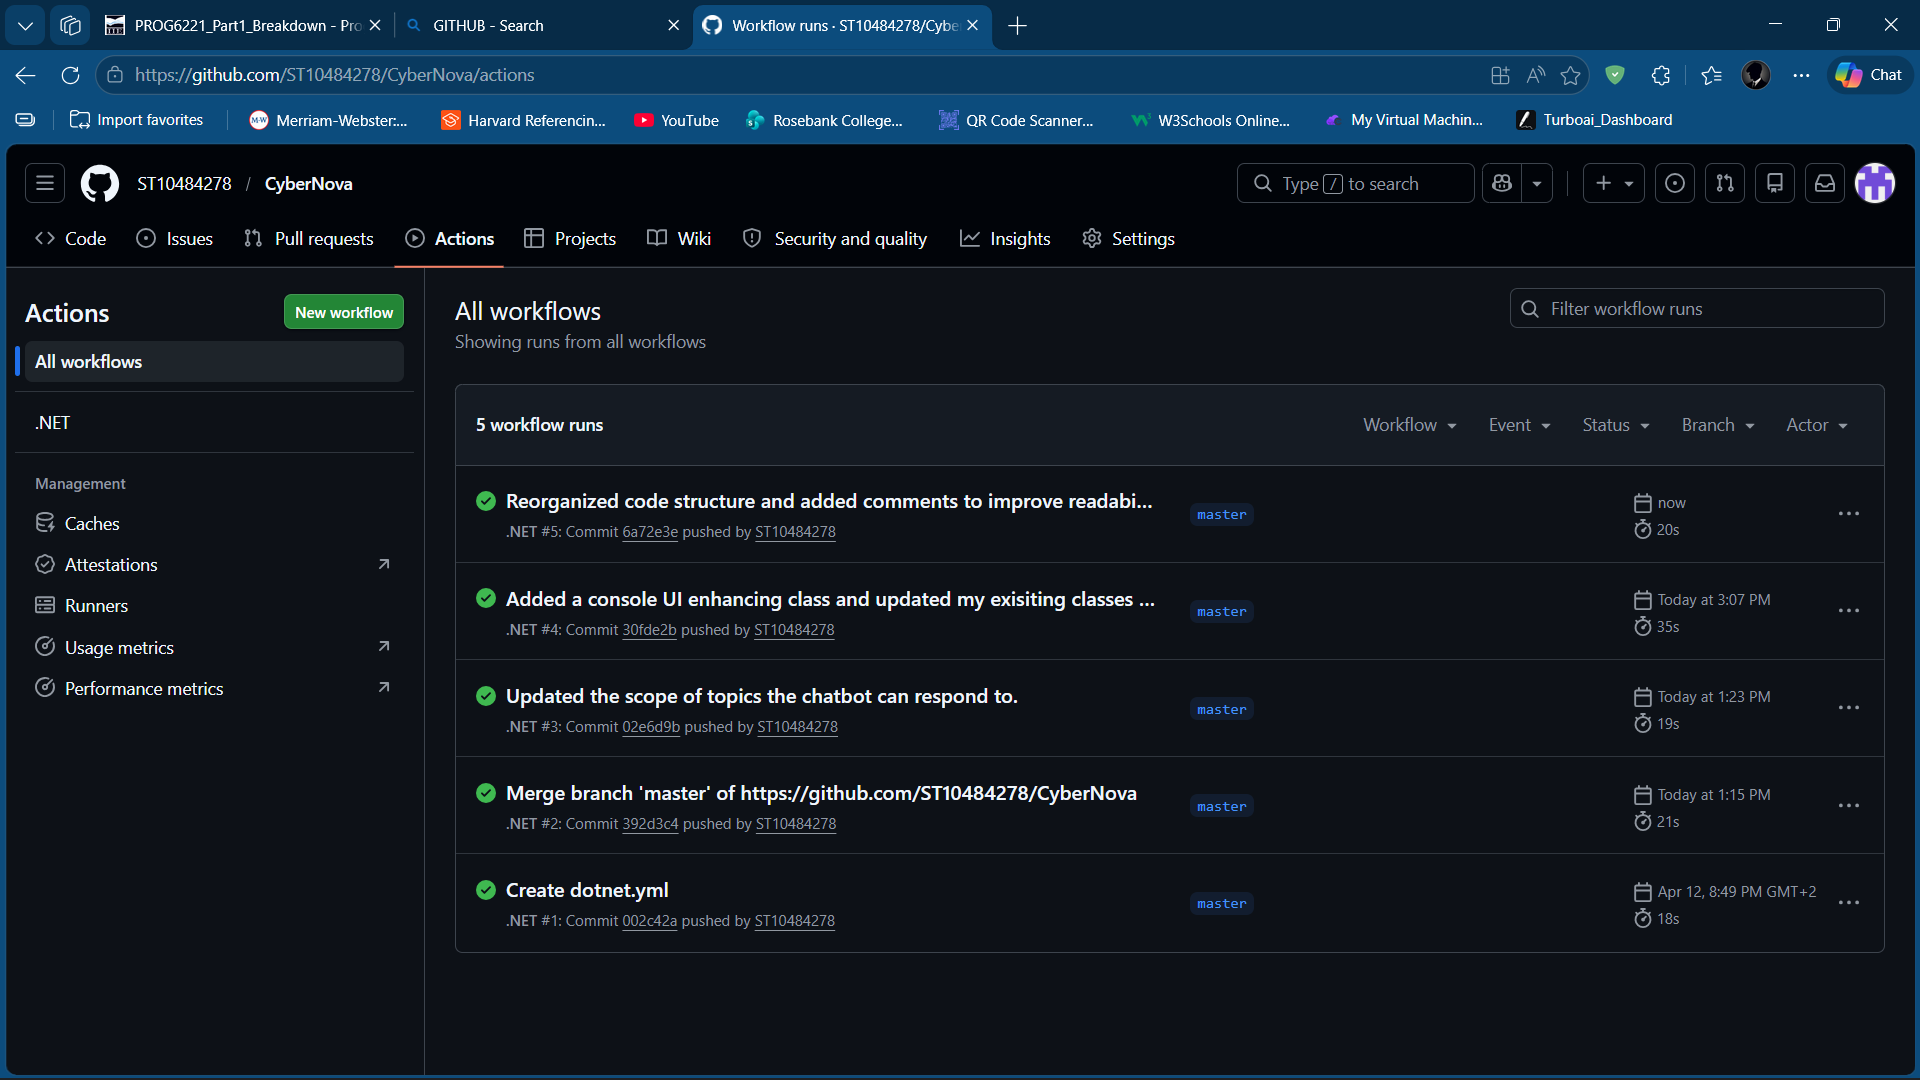
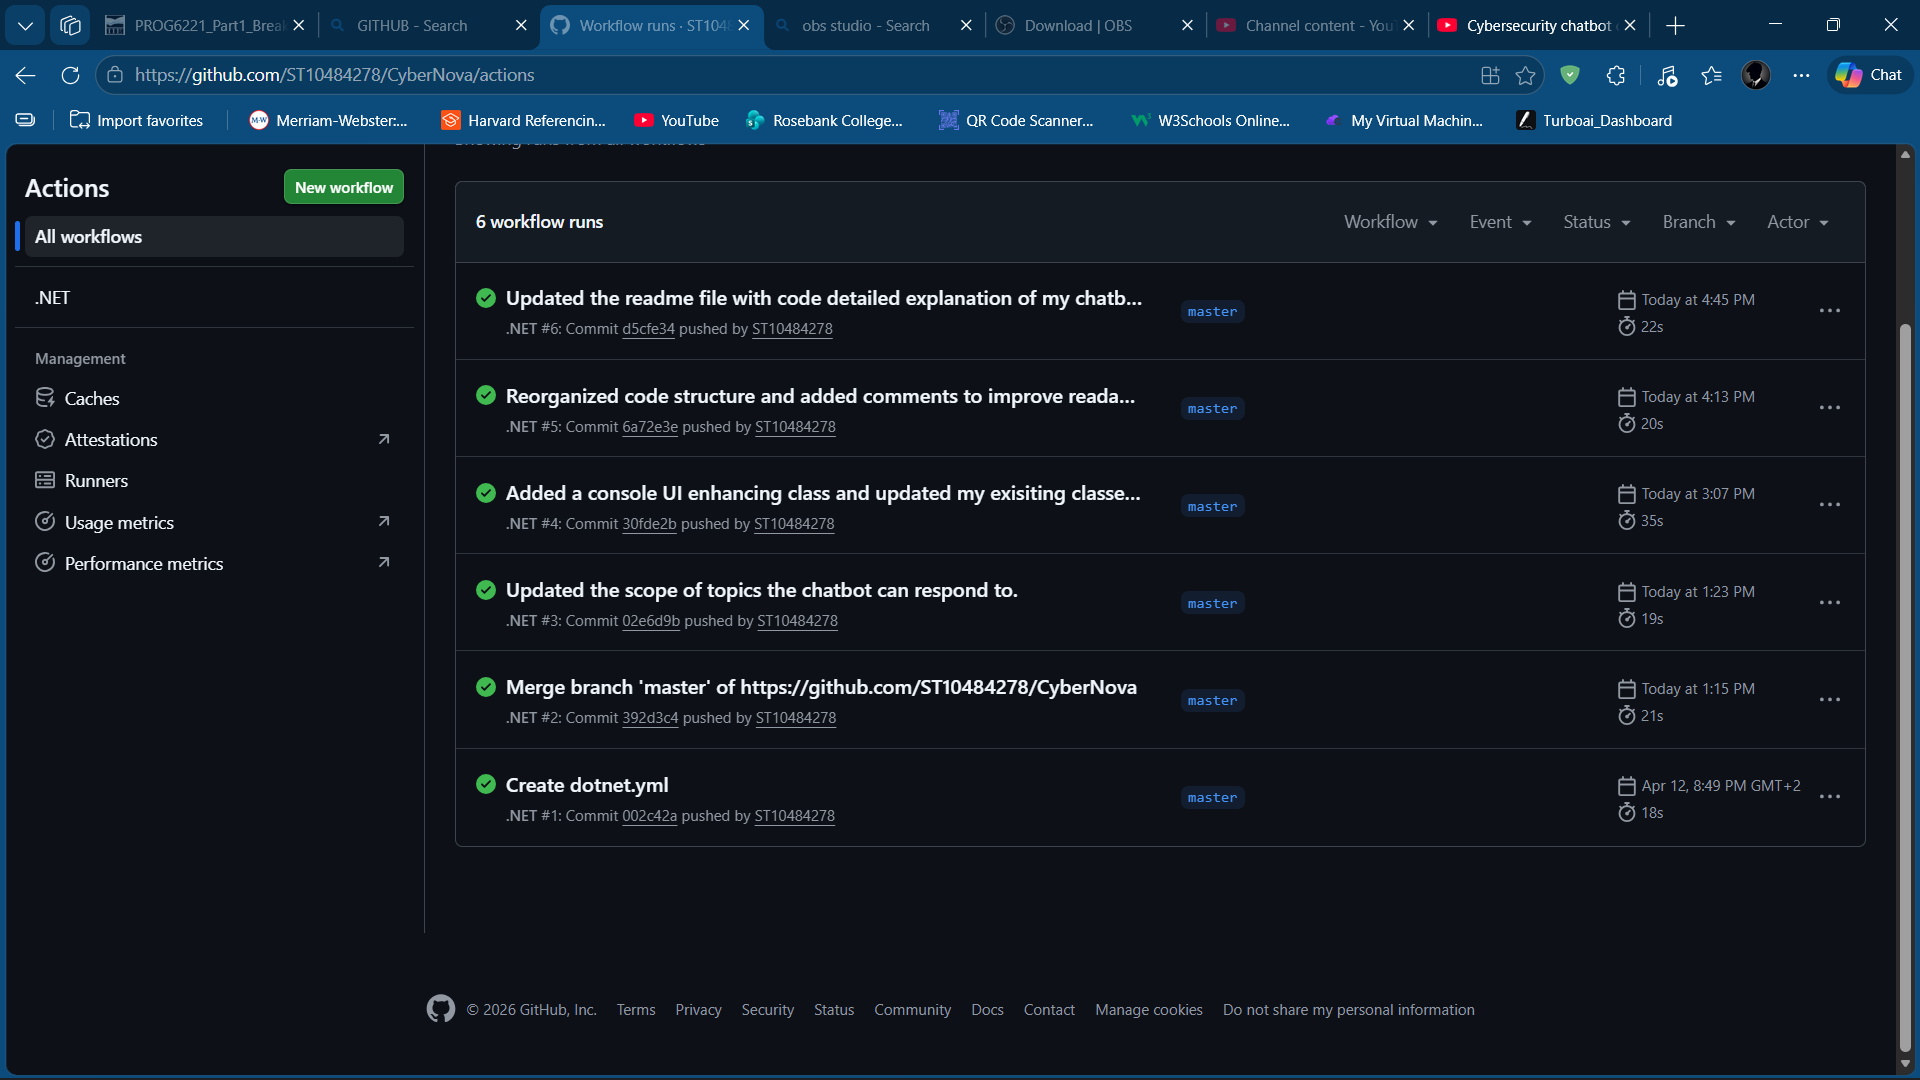
Added the CI workflow screenshot  and a link to my presentation video inside the readme file.

diff --git a/UI_ENHANCER.cs b/UI_ENHANCER.cs
@@ -5,6 +5,7 @@ using System.Text;
 namespace CyberNova
 {
     public static class UI_ENHANCER
+
     {
        
         

diff --git a/README.md b/README.md
@@ -303,3 +303,6 @@ The project highlights skills in:
 ## Chatbot Screenshot
 
 ![CyberNova Chatbot](images/CI_Workflow.png)
+
+##Video Demonstration
+*https://youtu.be/iUYTB9JEWrA
